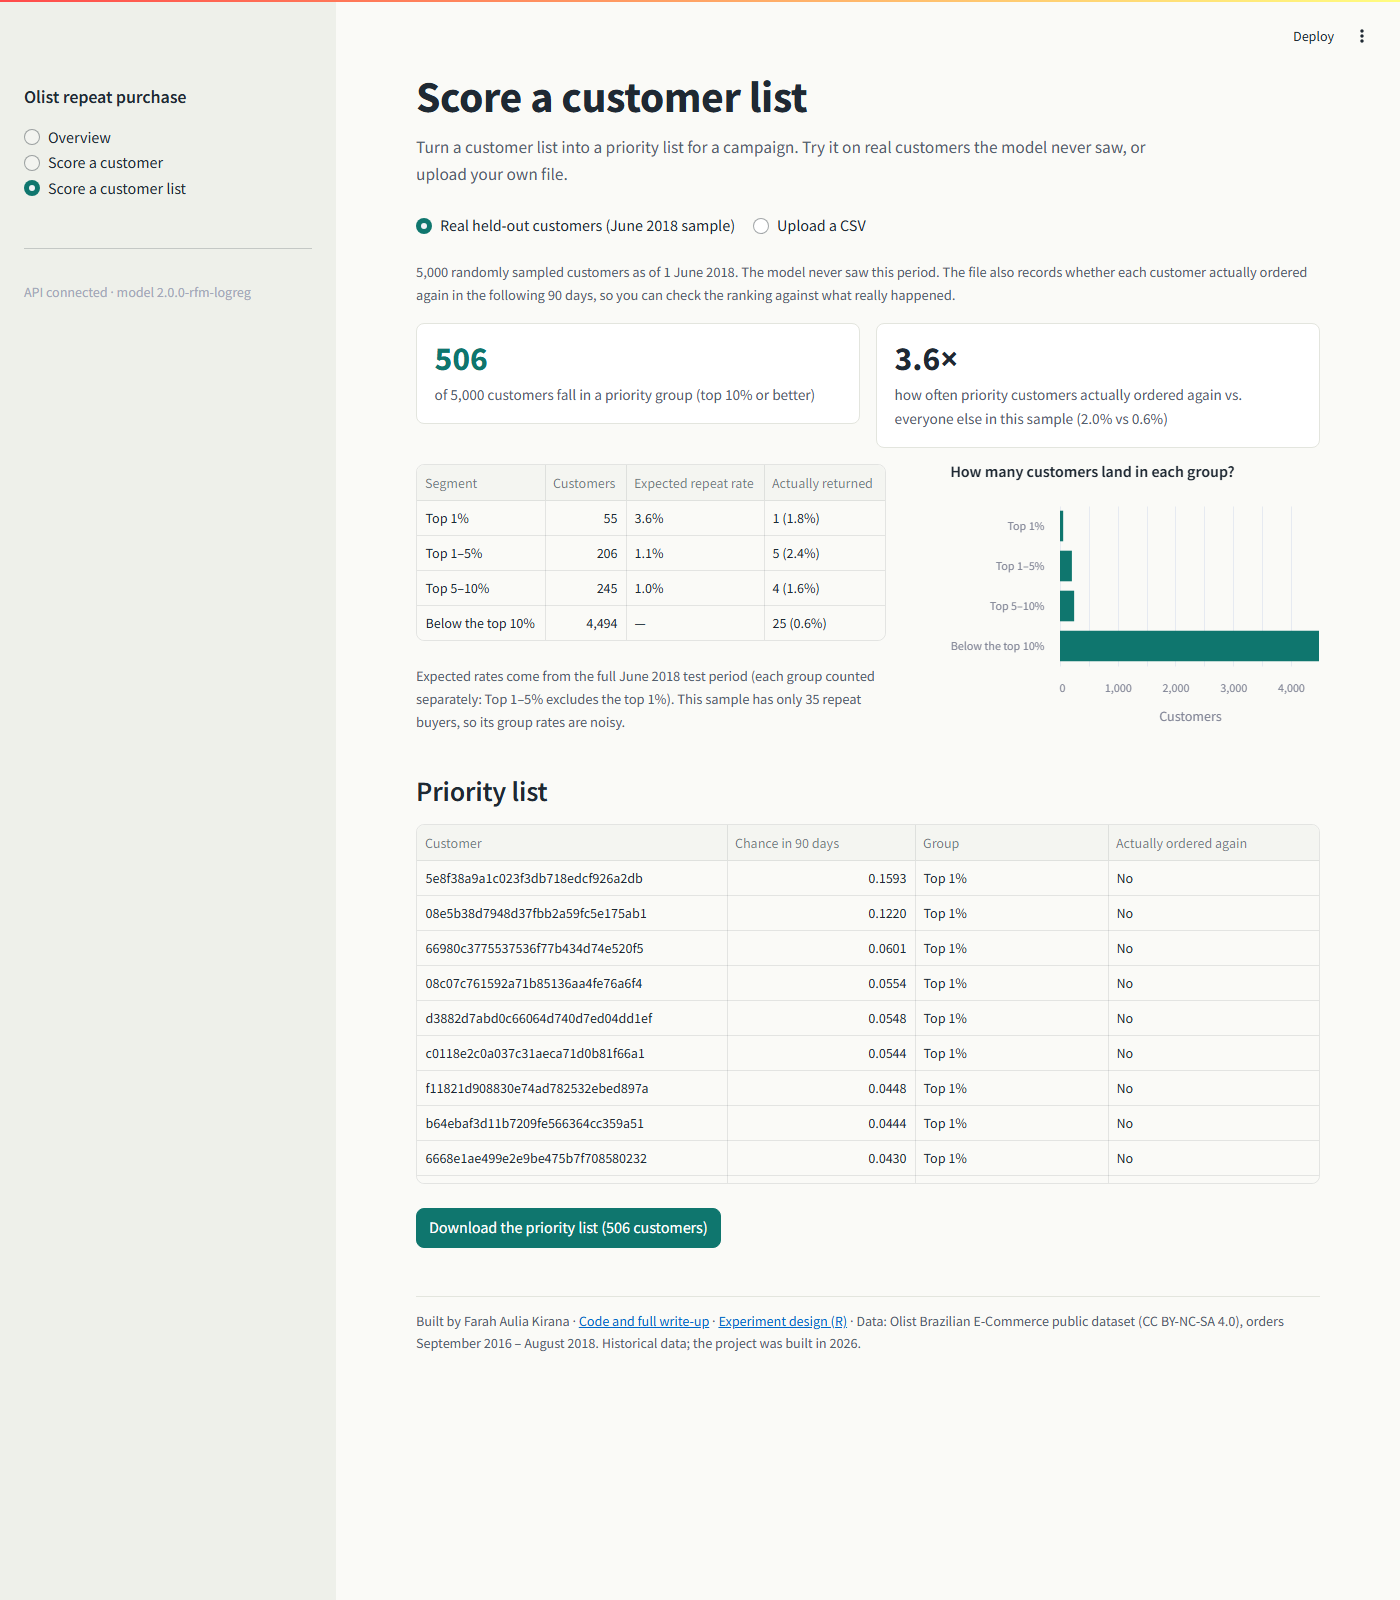
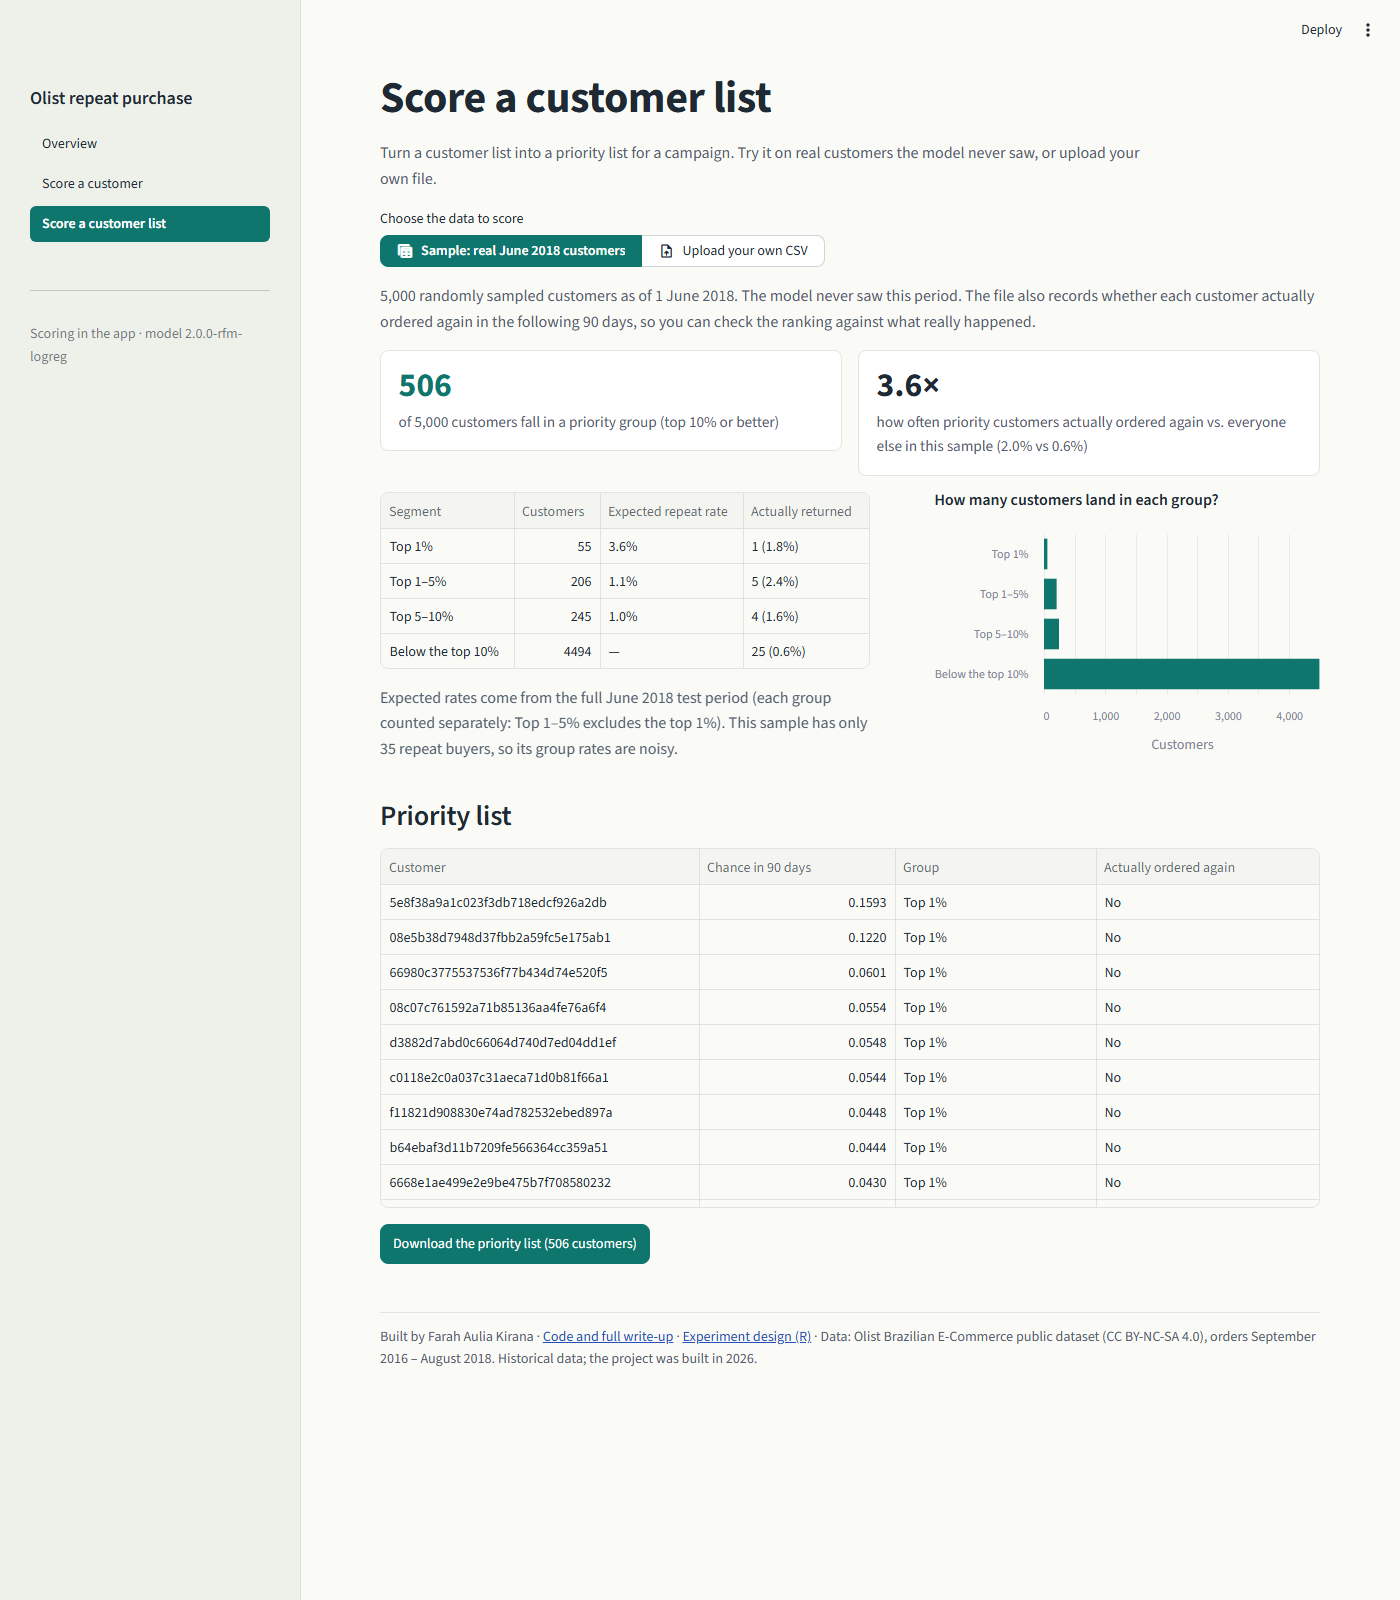
feat: clearer option controls in the dashboard
Radio buttons made the active choice hard to see. The data source and
example pickers are now segmented controls with a filled active state,
and the sidebar menu is styled as navigation with a highlighted page.

- Pin Streamlit to 1.67.0 so local and Streamlit Cloud match
- Refresh the README screenshots

diff --git a/streamlit_app.py b/streamlit_app.py
@@ -80,6 +80,28 @@ st.markdown(f"""
     .note {{ color: {MUTED}; font-size: 0.9rem; }}
     .footer {{ color: {MUTED}; font-size: 0.88rem; border-top: 1px solid #E3E5DE;
                padding-top: 0.8rem; margin-top: 2rem; }}
+    /* Pilihan (segmented control): yang aktif terisi penuh supaya jelas terpilih */
+    button[data-variant="segmented_control"] {{
+        padding: 0.45rem 1rem !important; background: #FFFFFF !important; color: {INK} !important; }}
+    button[data-variant="segmented_control"]:hover {{ color: {ACCENT} !important; }}
+    button[data-variant="segmented_control"][data-selected] {{
+        background: {ACCENT} !important; border-color: {ACCENT} !important; }}
+    button[data-variant="segmented_control"][data-selected],
+    button[data-variant="segmented_control"][data-selected] * {{ color: #FFFFFF !important;
+        font-weight: 600; }}
+    /* Menu samping: gaya navigasi, bukan tombol radio */
+    section[data-testid="stSidebar"] [role="radiogroup"] {{ gap: 0.2rem; align-items: stretch;
+        width: 100%; }}
+    section[data-testid="stSidebar"] [data-testid="stRadioOption"] {{
+        width: 100%; max-width: none; padding: 0.45rem 0.75rem; border-radius: 6px; margin: 0;
+        cursor: pointer; }}
+    section[data-testid="stSidebar"] [data-testid="stRadioOption"] > div >
+        div:not([data-testid="stMarkdownContainer"]) {{ display: none; }}
+    section[data-testid="stSidebar"] [data-testid="stRadioOption"]:hover {{ background: #E3E7DF; }}
+    section[data-testid="stSidebar"] [data-testid="stRadioOption"]:has(input:checked) {{
+        background: {ACCENT}; }}
+    section[data-testid="stSidebar"] [data-testid="stRadioOption"]:has(input:checked) p {{
+        color: #FFFFFF; font-weight: 600; }}
 </style>
 """, unsafe_allow_html=True)
 
@@ -211,7 +233,7 @@ with st.sidebar:
     st.markdown("### Olist repeat purchase")
     page = st.radio("Page", list(PAGES.values()),
                     index=list(PAGES).index(slug) if slug in PAGES else 0,
-                    label_visibility="collapsed")
+                    label_visibility="collapsed", width="stretch")
     st.query_params["page"] = next(k for k, v in PAGES.items() if v == page)
     st.divider()
     health = get_health()
@@ -408,8 +430,8 @@ elif page == PAGES["score"]:
         st.session_state["example"] = "Loyal repeat buyer"
         apply_example()
 
-    st.radio("Start from an example", [*EXAMPLES, "Custom"], key="example", horizontal=True,
-             on_change=apply_example)
+    st.segmented_control("Start from an example", [*EXAMPLES, "Custom"], key="example",
+                         required=True, on_change=apply_example)
 
     inputs, result = st.columns([1, 1.35], gap="large")
     with inputs:
@@ -522,12 +544,14 @@ else:
 
     required = ["customer_id", "recency_days", "frequency", "monetary", "tenure_days"]
     demo = load_demo_customers()
-    source = st.radio("Data", ["Real held-out customers (June 2018 sample)", "Upload a CSV"],
-                      horizontal=True, label_visibility="collapsed",
-                      index=0 if demo is not None else 1)
+    sources = {"sample": ":material/table_view: Sample: real June 2018 customers",
+               "upload": ":material/upload_file: Upload your own CSV"}
+    source = st.segmented_control("Choose the data to score", list(sources), format_func=sources.get,
+                                  default="sample" if demo is not None else "upload",
+                                  required=True)
 
     actual = None
-    if source.startswith("Real"):
+    if source == "sample":
         if demo is None:
             st.info("Demo sample not found. Run `python train_snapshot_pipeline.py` to create "
                     "`outputs/demo_customers_2018-06.csv`.")
